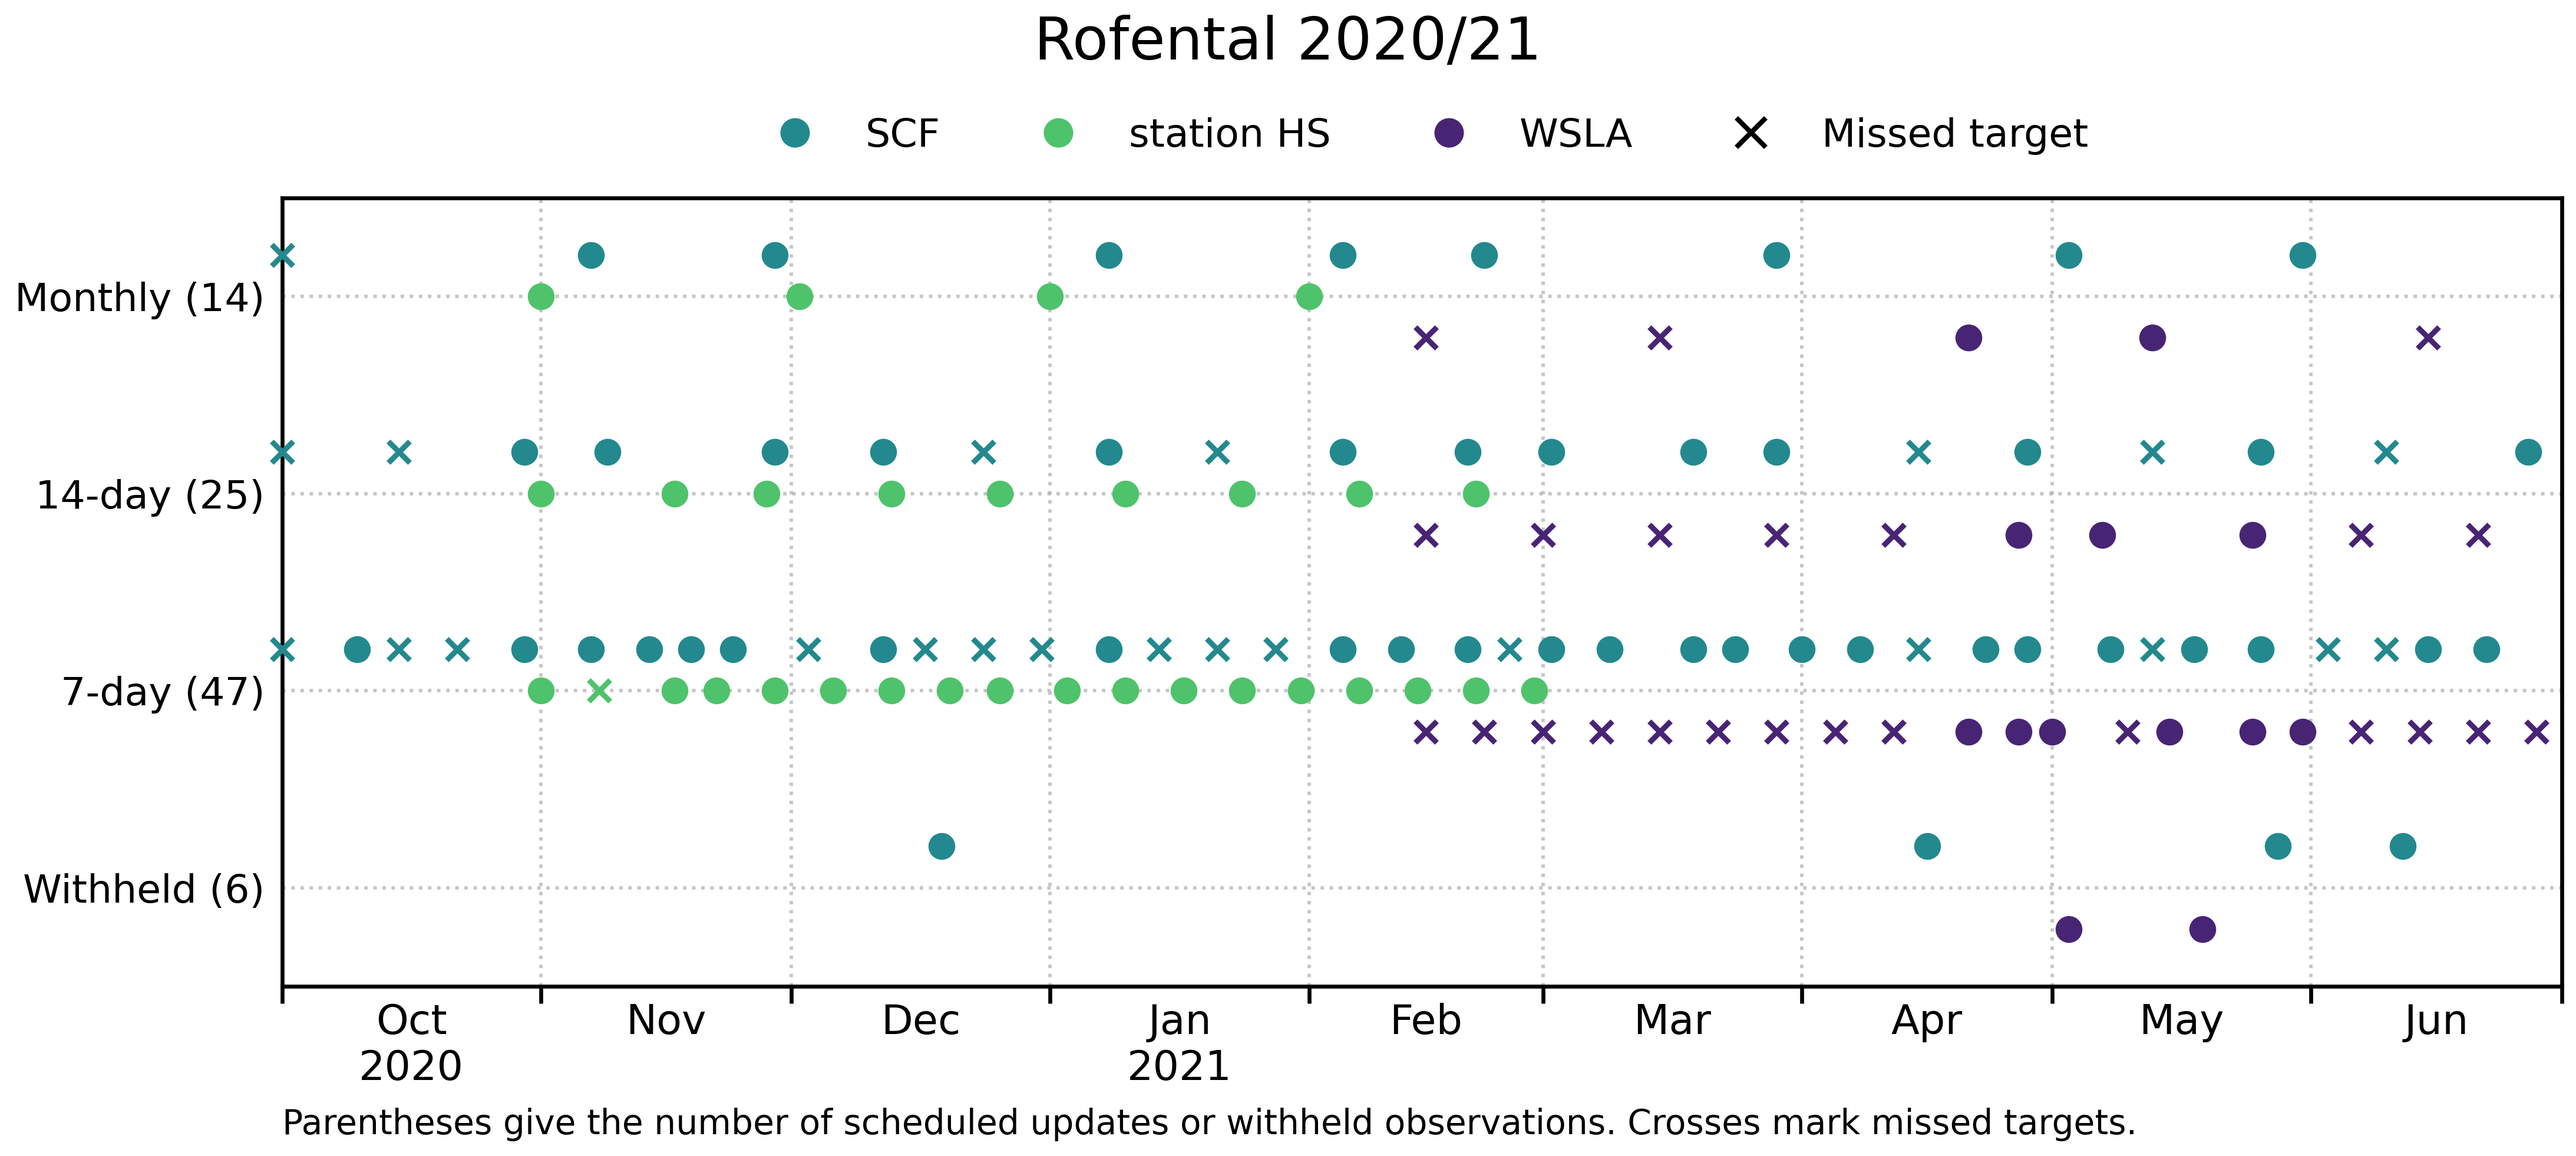
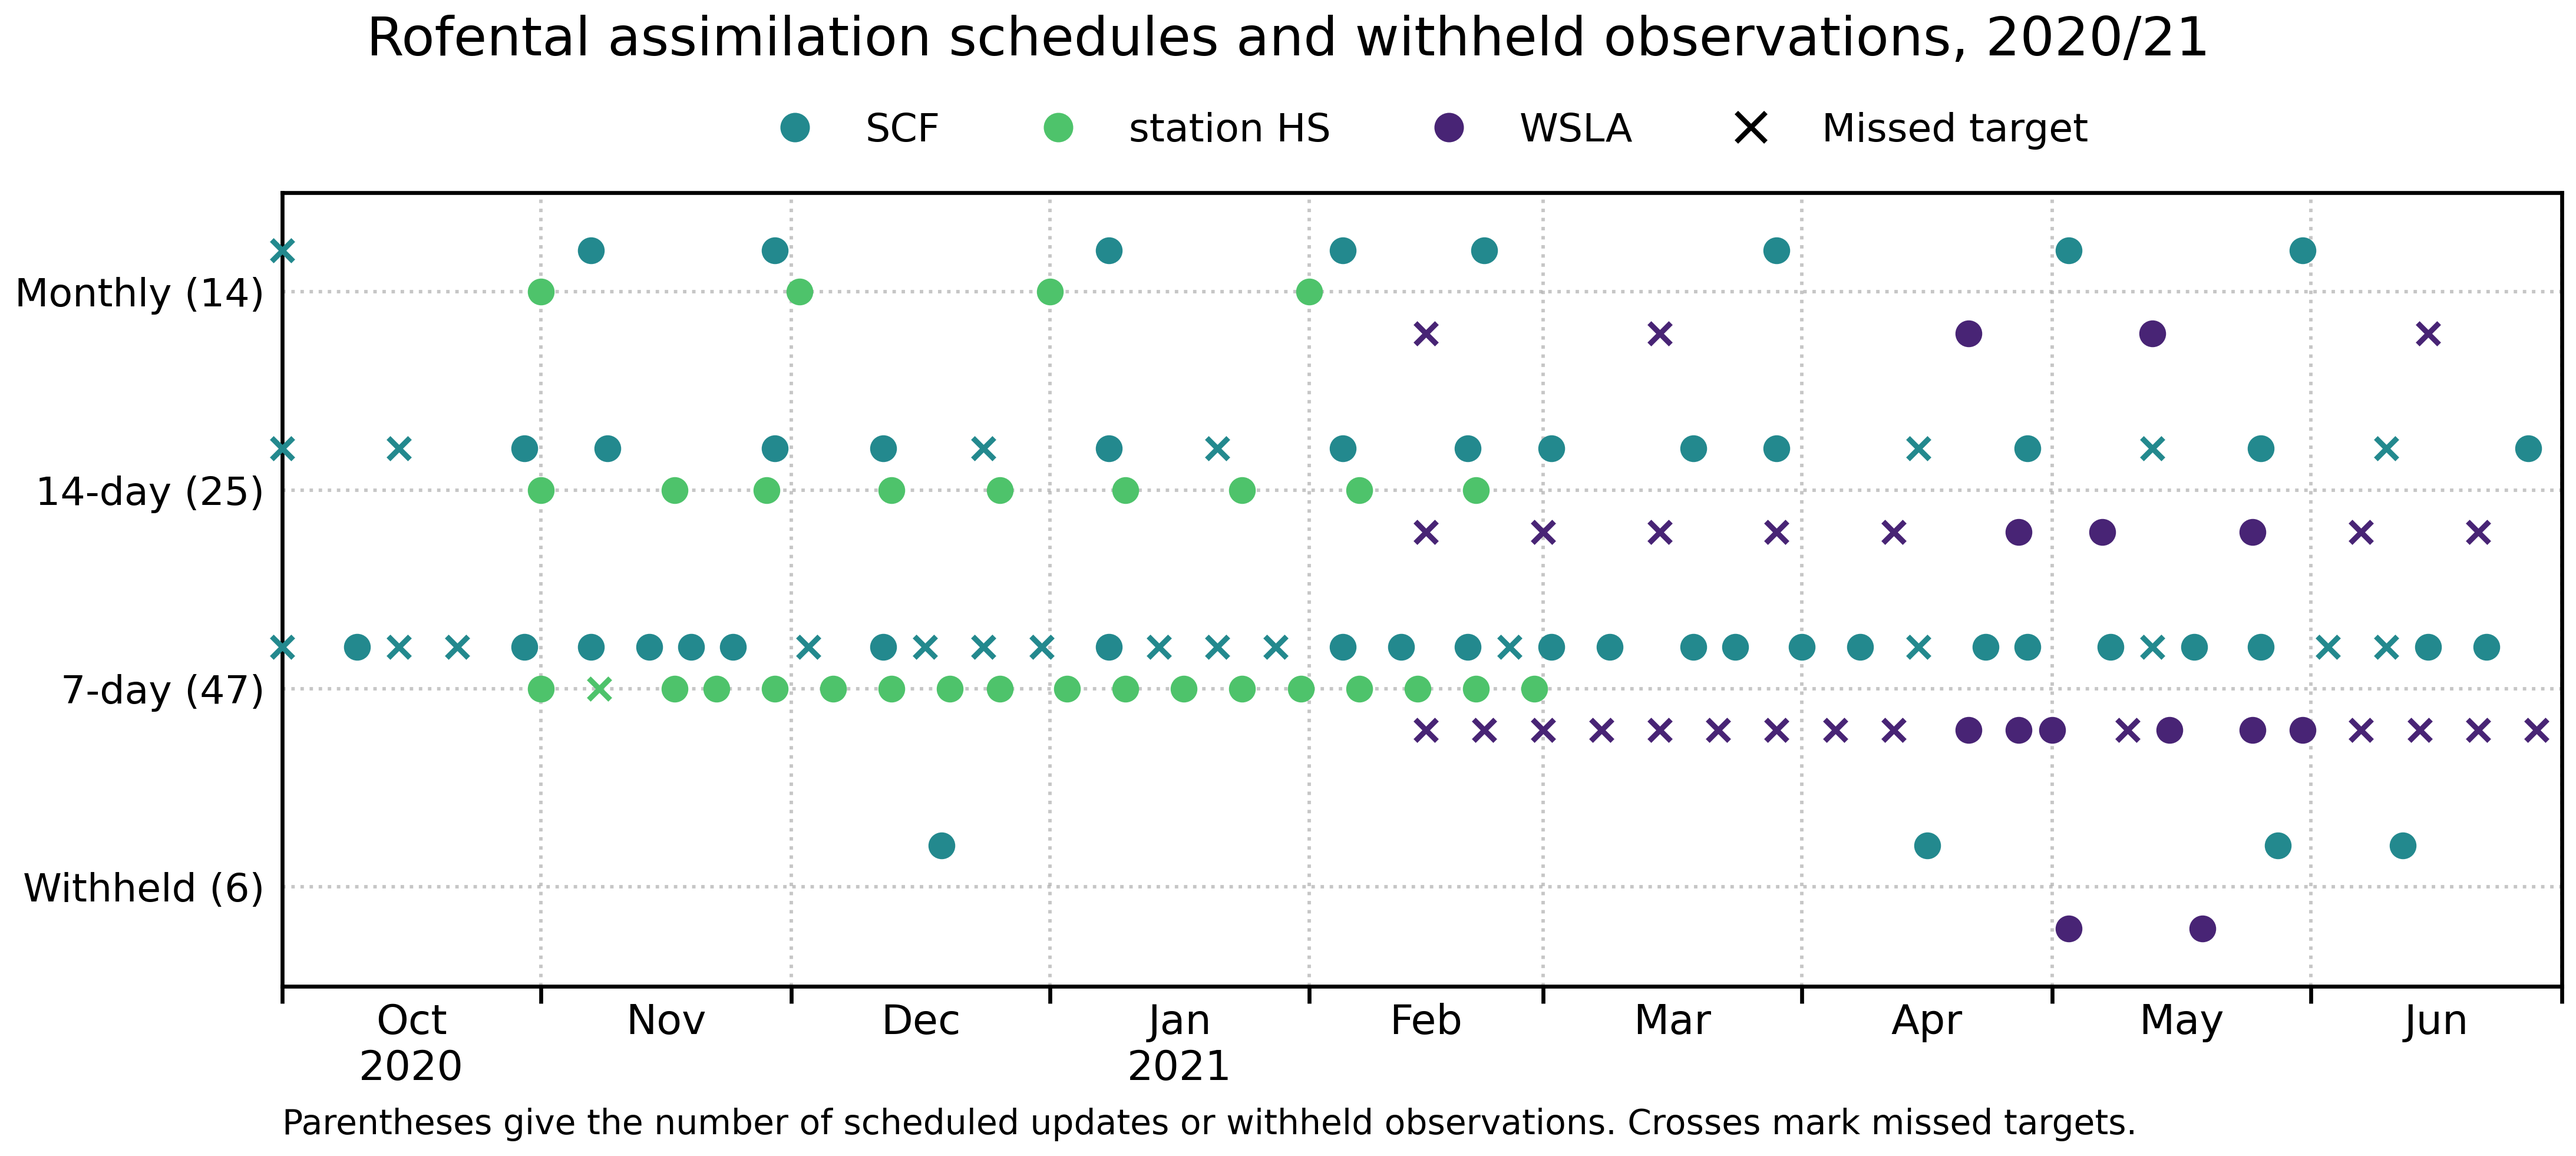
feat(planner): compare four winter schedules in a paper-sized timeline

diff --git a/openamundsen_da/planner/timeline.py b/openamundsen_da/planner/timeline.py
@@ -1,19 +1,55 @@
-"""Plot the editable observation schedules and common evaluation acquisitions."""
+"""Plot editable observation schedules and common evaluation acquisitions."""
 
 from __future__ import annotations
 
 import calendar
 from collections import defaultdict
+from dataclasses import dataclass
 from datetime import date, timedelta
 from pathlib import Path
+from string import ascii_lowercase
 
 from .selection import Row
+
+
+@dataclass
+class TimelinePanel:
+    """Schedules and withheld observations for one planning period."""
+
+    name: str
+    schedules: dict[str, list[Row]]
+    withheld: list[Row]
+    bounds: tuple[date, date] | None = None
+
+
+def _panel_data(panel: TimelinePanel):
+    if not panel.schedules:
+        raise ValueError("supply at least one schedule to plot")
+    groups = defaultdict(list)
+    labels = []
+    for i, (name, rows) in enumerate([*panel.schedules.items(), ("Withheld", panel.withheld)]):
+        count = 0
+        for number, row in enumerate(rows, 1):
+            variable = str(row.get("variable") or "").strip()
+            actual = row.get("date")
+            day = actual or row.get("target_date")
+            if not day or not variable or (i == len(panel.schedules) and not actual):
+                raise ValueError(f"timeline row {number} in {name} requires a date and variable")
+            count += bool(actual)
+            groups[(i, variable, bool(actual))].append(date.fromisoformat(str(day)))
+        labels.append(f"{name} ({count})")
+    return groups, labels
 
 
 def plot_timeline(
     schedules: dict[str, list[Row]], holdouts: list[Row], output: Path, *, title: str | None = None
 ) -> None:
-    """Render the supplied schedule rows, including targets left empty by an editor."""
+    """Render a single period from the supplied editable schedule rows."""
+    plot_timelines([TimelinePanel("", schedules, holdouts)], output, title=title)
+
+
+def plot_timelines(panels: list[TimelinePanel], output: Path, *, title: str | None = None) -> None:
+    """Stack planning periods in input order with a shared variable key and count caption."""
     import matplotlib.pyplot as plt
     from matplotlib.lines import Line2D
 
@@ -23,97 +59,75 @@ def plot_timeline(
     from openamundsen_da.methods.viz.plots.theme import GRID_ALPHA, GRID_LS, GRID_LW
     from openamundsen_da.methods.viz.theme import (
         DA_VARIABLE_STYLES,
+        FIGHEIGHT_OVERVIEW_ROW,
         FIGWIDTH_OVERVIEW_PAPER,
         canonical_da_variable,
     )
 
-    if not schedules:
-        raise ValueError("supply at least one schedule to plot")
+    if not panels:
+        raise ValueError("supply at least one timeline panel")
     if Path(output).suffix.lower() != ".png":
         raise ValueError("timeline output must have a .png extension")
-    groups = defaultdict(list)
-    variables = set()
-    labels = []
-    for i, (name, rows) in enumerate([*schedules.items(), ("Withheld", holdouts)]):
-        is_withheld = i == len(schedules)
-        count = 0
-        for number, row in enumerate(rows, 1):
-            variable = str(row.get("variable") or "").strip()
-            actual = row.get("date")
-            day = actual or row.get("target_date")
-            if not day or not variable or (is_withheld and not actual):
-                raise ValueError(
-                    f"timeline row {number} in {name} requires a date and variable"
-                )
-            if actual:
-                count += 1
-            variables.add(variable)
-            groups[(i, variable, bool(actual))].append(date.fromisoformat(str(day)))
-        labels.append(f"{name} ({count})")
+    data = [_panel_data(panel) for panel in panels]
+    variables = sorted({var for groups, _ in data for _, var, _ in groups})
     colors = {}
     offsets = {}
-    for i, variable in enumerate(sorted(variables)):
+    for i, variable in enumerate(variables):
         offsets[variable] = 0.0 if len(variables) == 1 else 0.42 * (i / (len(variables) - 1) - 0.5)
         style = DA_VARIABLE_STYLES.get(canonical_da_variable(variable))
         colors[variable] = style["line"] if style else f"C{i % 10}"
-    height = 1.35 + len(labels) * 0.48
+
+    combined = len(panels) > 1
+    heights = [max(FIGHEIGHT_OVERVIEW_ROW, 0.48 * len(labels)) for _, labels in data]
     with plt.rc_context():
         set_matplotlib_text_black(plt.matplotlib)
-        fig, ax = plt.subplots(figsize=(FIGWIDTH_OVERVIEW_PAPER, height), layout="constrained")
+        fig, axes = plt.subplots(
+            len(panels), 1, squeeze=False, height_ratios=heights,
+            figsize=(FIGWIDTH_OVERVIEW_PAPER, 1.35 + sum(heights)), layout="constrained",
+        )
         try:
-            for (i, variable, actual), dates in groups.items():
-                ax.scatter(
-                    dates,
-                    [i + offsets[variable]] * len(dates),
-                    color=colors[variable],
-                    marker="o" if actual else "x",
-                    s=19,
-                    linewidths=1.1,
-                    zorder=3,
-                    clip_on=False,
-                )
-            ax.set_yticks(range(len(labels)), labels)
-            ax.set_ylim(len(labels) - 0.5, -0.5)
-            ax.grid(True, linestyle=GRID_LS, linewidth=GRID_LW, alpha=GRID_ALPHA)
-            if groups:
-                dates = [day for days in groups.values() for day in days]
-                first, last = min(dates), max(dates)
-                start = first.replace(day=1)
-                end = last.replace(day=calendar.monthrange(last.year, last.month)[1]) + timedelta(days=1)
-                apply_month_interval_axis_labels(ax, (start, end))
-            else:
-                ax.set_xticks([])
-            ax.set_xlabel(
+            for index, (ax, panel, (groups, labels)) in enumerate(zip(axes.flat, panels, data, strict=True)):
+                for (i, variable, actual), dates in groups.items():
+                    ax.scatter(
+                        dates, [i + offsets[variable]] * len(dates), color=colors[variable],
+                        marker="o" if actual else "x", s=19, linewidths=1.1, zorder=3, clip_on=False,
+                    )
+                ax.set_yticks(range(len(labels)), labels)
+                ax.set_ylim(len(labels) - 0.5, -0.5)
+                ax.grid(True, linestyle=GRID_LS, linewidth=GRID_LW, alpha=GRID_ALPHA)
+                bounds = panel.bounds
+                if groups and bounds is None:
+                    days = [day for dates in groups.values() for day in dates]
+                    first, last = min(days), max(days)
+                    next_month = last.replace(day=calendar.monthrange(last.year, last.month)[1]) + timedelta(days=1)
+                    bounds = (first.replace(day=1), next_month)
+                if bounds:
+                    apply_month_interval_axis_labels(ax, bounds, include_year_on_first=not combined)
+                else:
+                    ax.set_xticks([])
+                ax.tick_params(axis="y", length=0, labelsize=8)
+                if combined:
+                    letter = ascii_lowercase[index] if index < len(ascii_lowercase) else str(index + 1)
+                    ax.set_title(f"({letter}) {panel.name}", loc="left", fontsize=10)
+
+            axes[-1, 0].set_xlabel(
                 "Parentheses give the number of scheduled updates or withheld observations. Crosses mark missed targets.",
-                loc="left",
-                fontsize=7,
+                loc="left", fontsize=7,
             )
-            ax.tick_params(axis="y", length=0, labelsize=8)
             handles = [
-                Line2D(
-                    [],
-                    [],
-                    linestyle="",
-                    marker="o",
-                    color=colors[var],
-                    markersize=5,
-                    label=variable_label(var) if var in VARIABLE_STYLES else var.replace("_", " "),
-                )
-                for var in sorted(variables)
+                Line2D([], [], linestyle="", marker="o", color=colors[var], markersize=5,
+                       label=variable_label(var) if var in VARIABLE_STYLES else var.replace("_", " "))
+                for var in variables
             ]
-            if any(not actual for _, _, actual in groups):
+            if any(not actual for groups, _ in data for _, _, actual in groups):
                 handles.append(Line2D([], [], linestyle="", marker="x", color="black", label="Missed target"))
             if handles:
-                ax.legend(
-                    handles=handles,
-                    loc="lower center",
-                    bbox_to_anchor=(0.5, 1.01),
-                    ncol=min(len(handles), 4),
-                    frameon=False,
-                    fontsize=8,
-                )
-            if title:
-                fig.suptitle(title)
+                options = dict(handles=handles, ncol=min(len(handles), 4), frameon=False, fontsize=8)
+                if combined:
+                    fig.legend(loc="outside lower center", **options)
+                else:
+                    axes[0, 0].legend(loc="lower center", bbox_to_anchor=(0.5, 1.01), **options)
+            fig.suptitle(title or "Assimilation schedules and withheld observations", fontsize=11)
             Path(output).parent.mkdir(parents=True, exist_ok=True)
             save_figure_png(fig, output)
         finally:

diff --git a/tests/unit/test_rofental_planner.py b/tests/unit/test_rofental_planner.py
@@ -35,3 +35,37 @@ def test_reviewed_winter_is_reproducible(tmp_path, year, reserved, expected):
         updates = [row for row in rows if row["date"]]
         assert len(updates) == count
         assert not any(matches_holdout(row, excluded) for row in updates for excluded in held)
+
+
+def test_four_panel_timeline_matches_reviewed_winter_plots(monkeypatch):
+    import runpy
+    from datetime import date
+
+    from matplotlib.dates import num2date
+
+    from openamundsen_da.methods.viz import common
+    from openamundsen_da.methods.viz.theme import FIGWIDTH_OVERVIEW_PAPER
+
+    single_rows = {}
+    combined_titles = []
+
+    def inspect(fig, output):
+        assert fig.get_figwidth() == pytest.approx(FIGWIDTH_OVERVIEW_PAPER)
+        if output.parent != PLANNER:
+            axis, = fig.axes
+            single_rows[output.parent.name] = [label.get_text() for label in axis.get_yticklabels()]
+            return
+        assert output == PLANNER / "timeline.png"
+        assert 7.3 < fig.get_figheight() < 11.69
+        assert len(fig.legends) == 1
+        for year, axis in enumerate(fig.axes, 2019):
+            combined_titles.append(axis.get_title(loc="left"))
+            assert [num2date(value).date() for value in axis.get_xlim()] == [
+                date(year, 10, 1), date(year + 1, 7, 1)
+            ]
+            assert [label.get_text() for label in axis.get_yticklabels()] == single_rows[f"{year}_{year + 1}"]
+        assert sum(bool(axis.get_xlabel()) for axis in fig.axes) == 1
+
+    monkeypatch.setattr(common, "save_figure_png", inspect)
+    runpy.run_path(str(PLANNER / "plot_timelines.py"))["render"](PLANNER)
+    assert combined_titles == ["(a) 2019/20", "(b) 2020/21", "(c) 2021/22", "(d) 2022/23"]

diff --git a/examples/rofental/planner/plot_timelines.py b/examples/rofental/planner/plot_timelines.py
@@ -1,0 +1,34 @@
+"""Render the four Rofental winters and their paper-sized comparison from reviewed YAML."""
+
+import argparse
+from datetime import date
+from pathlib import Path
+
+from openamundsen_da.planner.tables import read_rows
+from openamundsen_da.planner.timeline import TimelinePanel, plot_timelines
+
+
+def render(root: Path) -> None:
+    title = "Rofental assimilation schedules and withheld observations"
+    panels = []
+    for year in range(2019, 2023):
+        directory = root / f"{year}_{year + 1}"
+        winter = f"{year}/{str(year + 1)[-2:]}"
+        schedules = {
+            label: read_rows(directory / f"{label.lower()}.yml")
+            for label in ("Monthly", "14-day", "7-day")
+        }
+        panel = TimelinePanel(
+            winter, schedules, read_rows(directory / "withheld.yml"),
+            bounds=(date(year, 10, 1), date(year + 1, 7, 1)),
+        )
+        panels.append(panel)
+        plot_timelines([panel], directory / "timeline.png", title=f"{title}, {winter}")
+    plot_timelines(panels, root / "timeline.png", title=title)
+
+
+if __name__ == "__main__":
+    parser = argparse.ArgumentParser(description=__doc__)
+    parser.add_argument("directory", nargs="?", type=Path, default=Path(__file__).resolve().parent,
+                        help="Planner directory containing the four winter directories")
+    render(parser.parse_args().directory)

diff --git a/examples/rofental/planner/README.md b/examples/rofental/planner/README.md
@@ -2,6 +2,8 @@
 
 The four winters share one YAML rules file. Start with the [2022/23 monthly schedule](2022_2023/monthly.yml) and its [withheld observations](2022_2023/withheld.yml). Each winter directory contains its observation inventory, one list of observations withheld from all three schedules, and the monthly, 14-day and 7-day schedules. Each schedule has one row per target, including the reason when a target was missed. The summary tables report requested and achieved counts and spacing. The exclusion tables identify individual acquisitions or station dates that failed a rule. [Selection rules](rules.yml) · [Counts by winter, schedule and variable](schedule_counts.yml)
 
+The [four-winter timeline](timeline.png) compares the schedules on the same October–June axis. The figure uses the framework’s 185 mm publication width and fits a portrait A4 page.
+
 | Winter and timeline | Monthly updates | 14-day updates | 7-day updates | Withheld optical / radar |
 | --- | ---: | ---: | ---: | ---: |
 | [2019/20](2019_2020/timeline.png) | 14 | 23 | 43 | 4 / 2 |
@@ -40,11 +42,8 @@ for year in 2019 2020 2021 2022; do
       --schedule "$cadence" --output "$dest/$cadence.yml"
     cmp "$winter/$cadence.yml" "$dest/$cadence.yml"
   done
-  openamundsen-da planner plot --schedule "$dest/monthly.yml" \
-    --schedule "$dest/14-day.yml" --schedule "$dest/7-day.yml" \
-    --withheld "$dest/withheld.yml" --title "Rofental $year/${next:2}" \
-    --output "$dest/timeline.png"
 done
+python plot_timelines.py "$out"
 ```
 
 The shipped Rofental setup includes the source files for 2022/23. Run its read-only validation against all three schedules after editing any schedule or its shared evaluation list.

diff --git a/docs/guides/observation-planner.md b/docs/guides/observation-planner.md
@@ -74,7 +74,7 @@ qualify, inspect the achieved count in the companion `_summary` table and the
 reasons in `_exclusions`. A station reservation can identify individual
 stations. Other available stations can still contribute if the minimum is met.
 
-Parentheses give the number of scheduled updates or withheld observations. Crosses mark missed targets.
+Parentheses give the number of scheduled updates or withheld observations. Crosses mark missed targets. The [four-winter Rofental example](../../examples/rofental/planner/README.md) also renders all winters together with a common legend and aligned October–June panels.
 
 Review the actual and missed targets, variable assignments and common evaluation
 observations. Edit the schedule file directly if needed. Generation protects an
